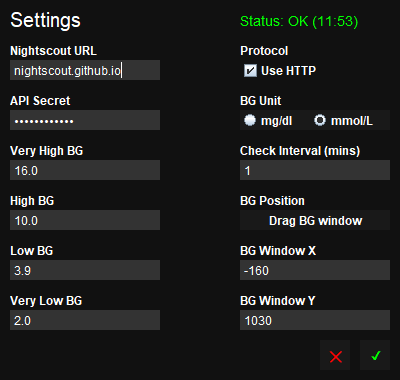
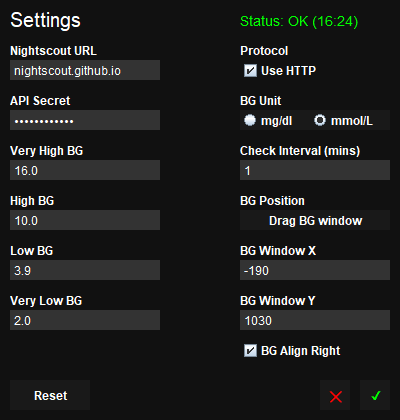
Updated for new setting

diff --git a/README.md b/README.md
@@ -51,5 +51,7 @@ __BG Window__
 Window X coordinate
 <br>
 Window Y coordinate
+<br>
+Align Right toggles text alignment in the BG window.
 
 __OR__ alternatively you can drag the BG window to your desired location.
